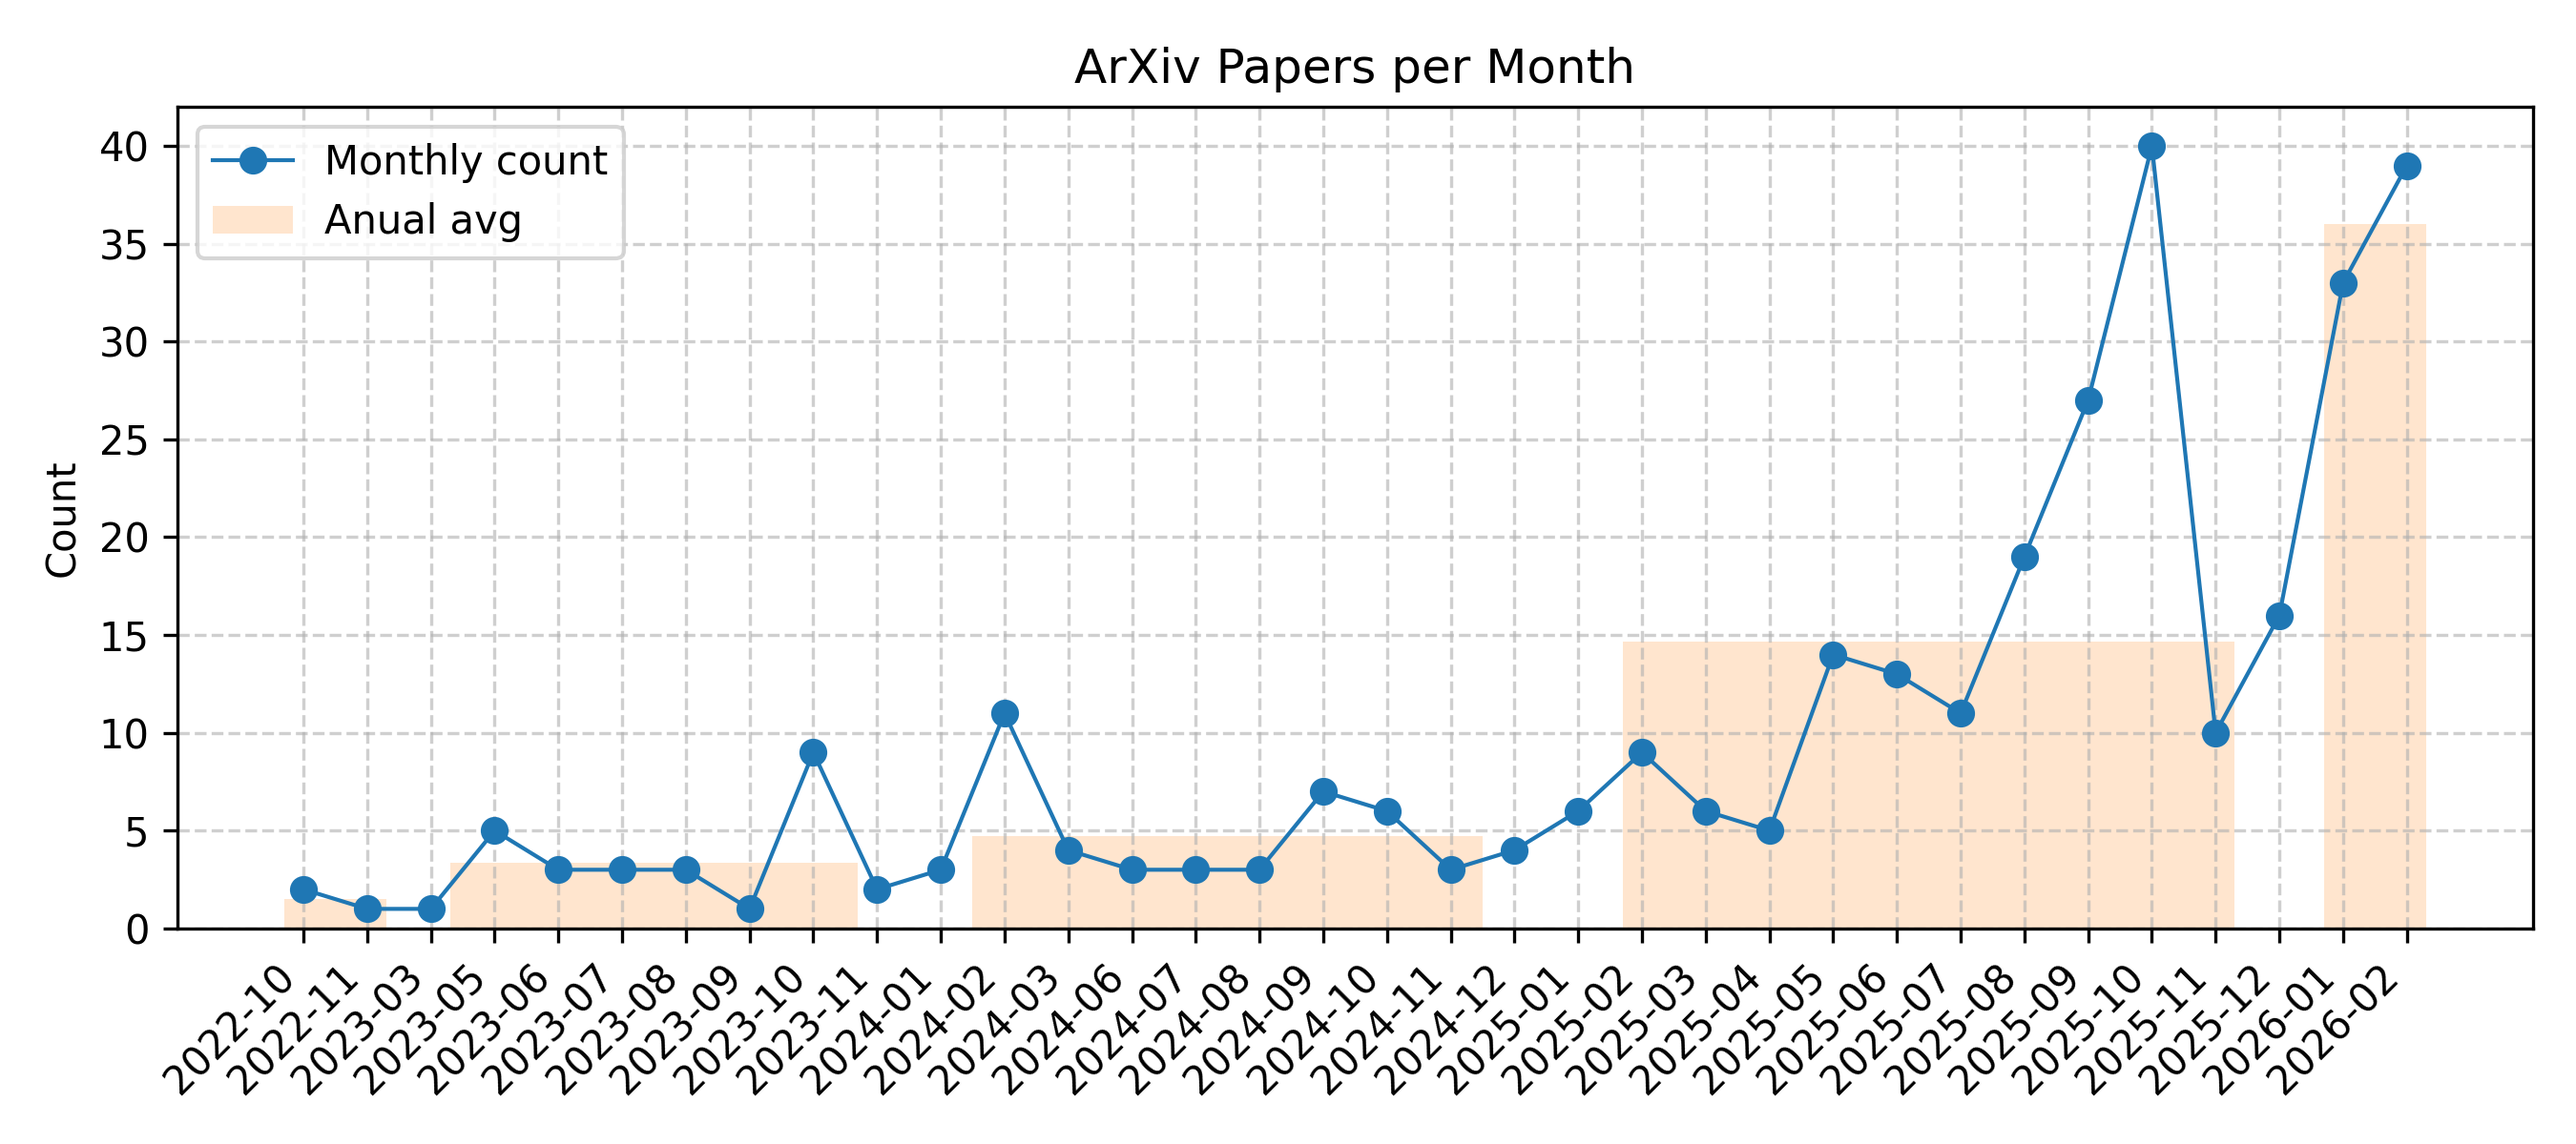
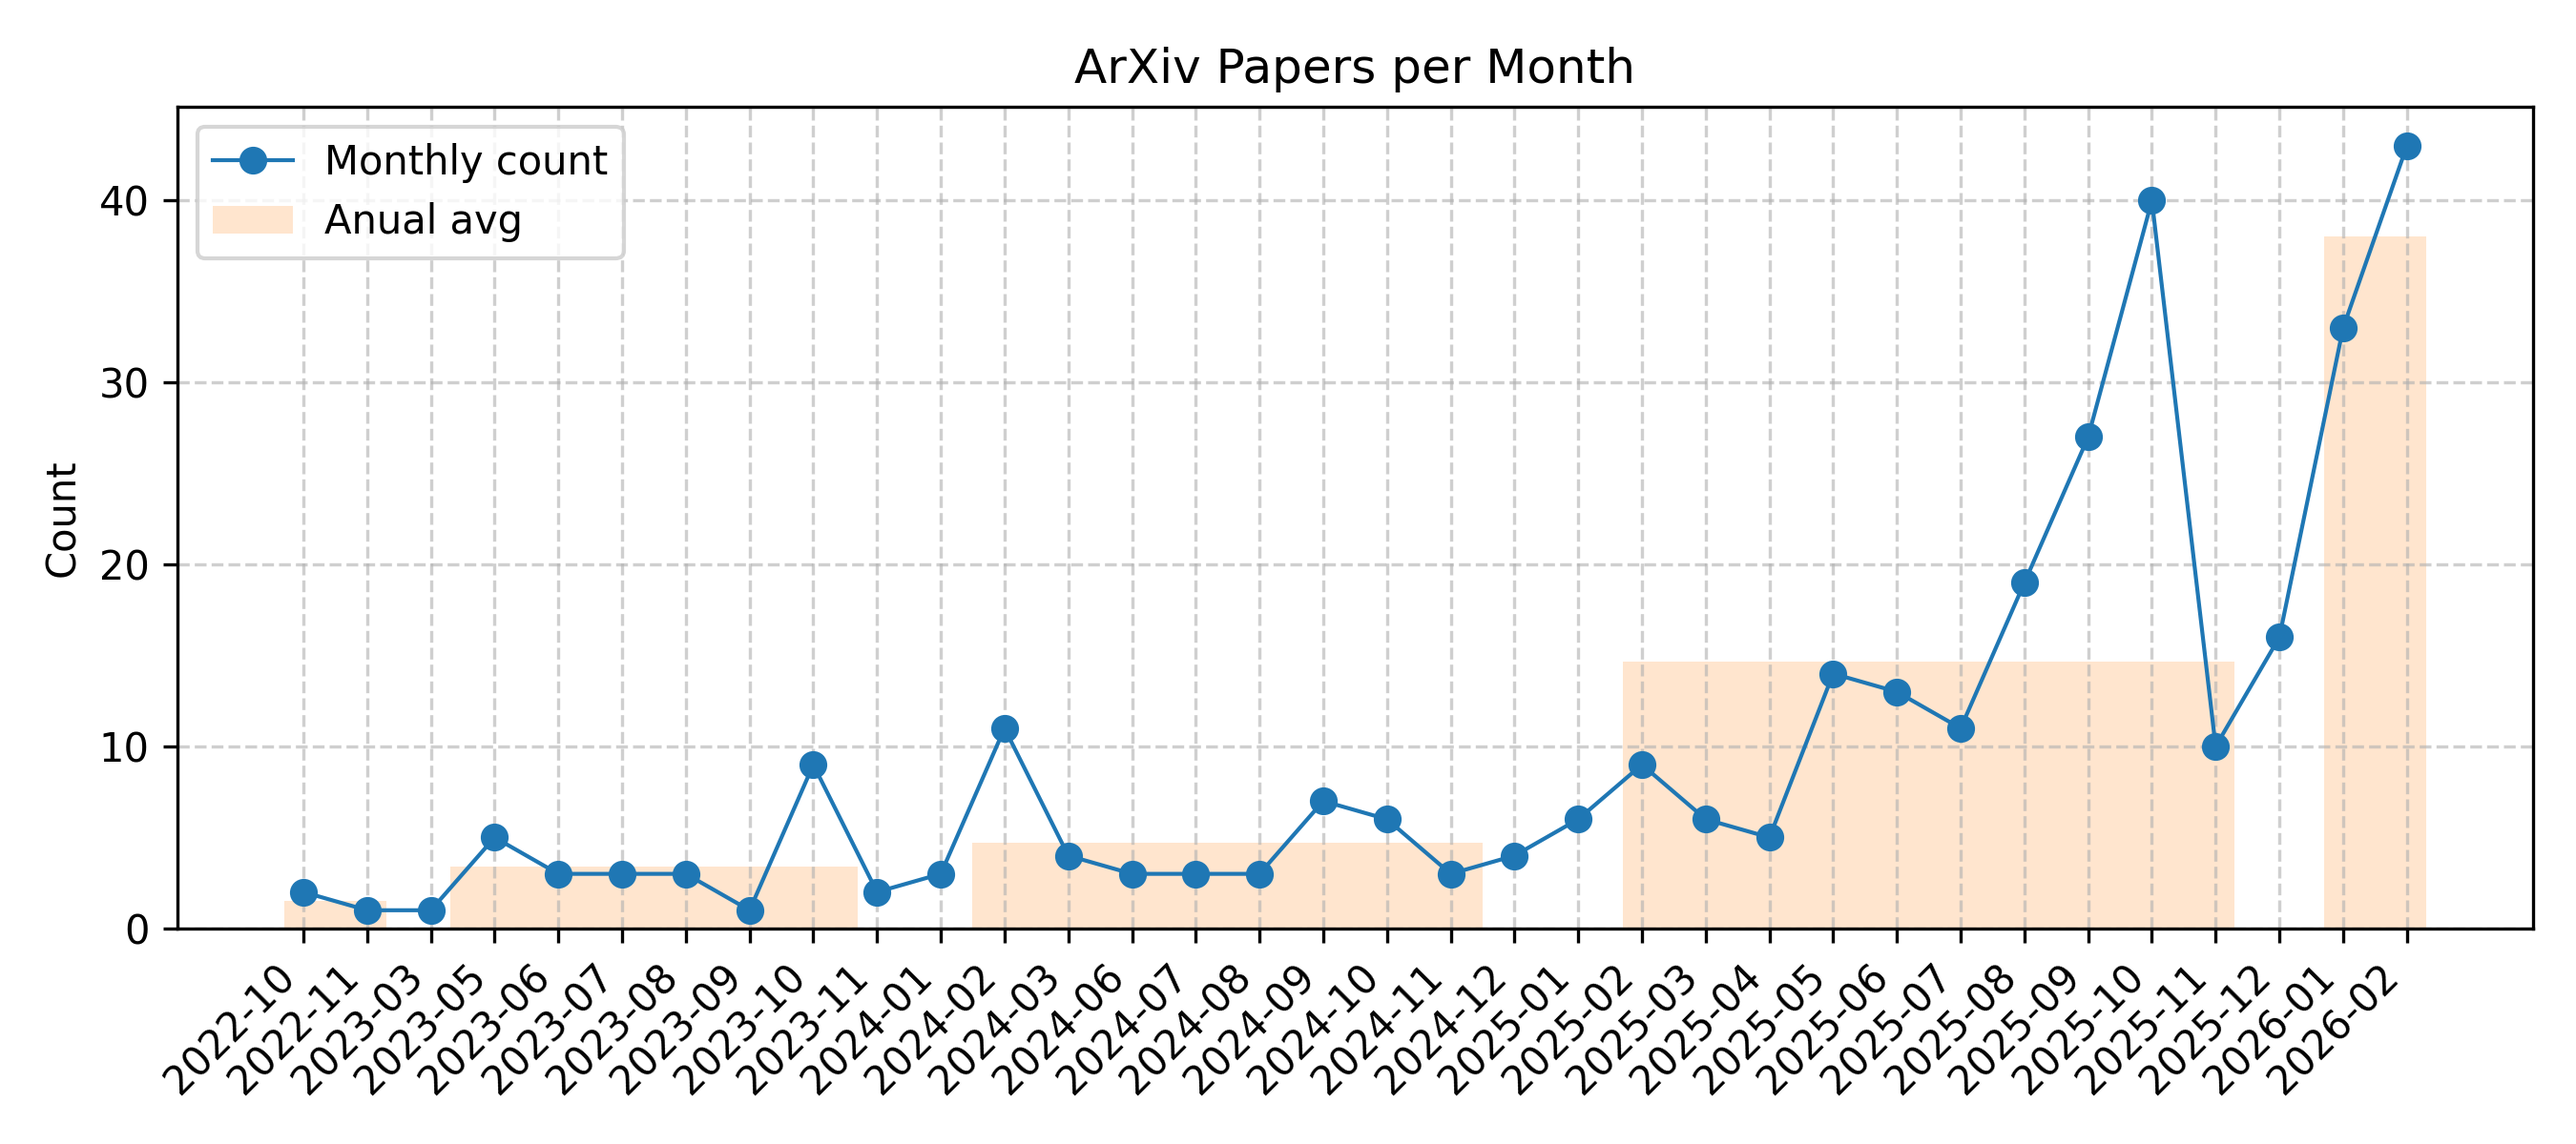
Github Action Automatic Update Diffusion NLP Arxiv Papers

diff --git a/README.md b/README.md
@@ -5,7 +5,7 @@
 
 For more carefully curated articles, you can refer to this [repository](https://github.com/bansky-cl/Diffusion_NLP_Papers).
 
-## Updated on 2026.02.26
+## Updated on 2026.02.27
 
 ![Monthly Trend](imgs/trend.png)
 
@@ -13,6 +13,10 @@ For more carefully curated articles, you can refer to this [repository](https://
 
 |Date|Title|label|Abstract|PDF|Code|
 |---|---|---|---|---|---|
+|**2026-02-26**|**Why Diffusion Language Models Struggle with Truly Parallel (Non-Autoregressive) Decoding?**|cs.CL, cs.AI| <details><summary>Full Abstract</summary>Diffusion Language Models (DLMs) are often advertised as enabling parallel token generation, yet practical fast DLMs frequently converge to left-to-right, autoregressive (AR)-like decoding dynamics. In contrast, genuinely non-AR generation is promising because it removes AR's sequential bottleneck, better exploiting parallel hardware to reduce synchronization/communication overhead and improve latency scaling with output length. We argue that a primary driver of AR-like decoding is a mismatch between DLM objectives and the highly sequential structure of widely used training data, including standard pretraining corpora and long chain-of-thought (CoT) supervision. Motivated by this diagnosis, we propose NAP (Non-Autoregressive Parallel DLMs), a proof-of-concept, data-centric approach that better aligns supervision with non-AR parallel decoding. NAP curates examples as multiple independent reasoning trajectories and couples them with a parallel-forced decoding strategy that encourages multi-token parallel updates. Across math reasoning benchmarks, NAP yields stronger performance under parallel decoding than DLMs trained on standard long CoT data, with gains growing as parallelism increases. Our results suggest that revisiting data and supervision is a principled direction for mitigating AR-like behavior and moving toward genuinely non-autoregressive parallel generation in DLMs. Our code is available at https://github.com/pixeli99/NAP.</details>|[2602.23225v1](http://arxiv.org/abs/2602.23225v1)| null|
+|**2026-02-26**|**Test-Time Scaling with Diffusion Language Models via Reward-Guided Stitching**|cs.CL, cs.AI| <details><summary>Full Abstract</summary>Reasoning with large language models often benefits from generating multiple chains-of-thought, but existing aggregation strategies are typically trajectory-level (e.g., selecting the best trace or voting on the final answer), discarding useful intermediate work from partial or "nearly correct" attempts. We propose Stitching Noisy Diffusion Thoughts, a self-consistency framework that turns cheap diffusion-sampled reasoning into a reusable pool of step-level candidates. Given a problem, we (i) sample many diverse, low-cost reasoning trajectories using a masked diffusion language model, (ii) score every intermediate step with an off-the-shelf process reward model (PRM), and (iii) stitch these highest-quality steps across trajectories into a composite rationale. This rationale then conditions an autoregressive (AR) model (solver) to recompute only the final answer. This modular pipeline separates exploration (diffusion) from evaluation and solution synthesis, avoiding monolithic unified hybrids while preserving broad search. Across math reasoning benchmarks, we find that step-level recombination is most beneficial on harder problems, and ablations highlight the importance of the final AR solver in converting stitched but imperfect rationales into accurate answers. Using low-confidence diffusion sampling with parallel, independent rollouts, our training-free framework improves average accuracy by up to 23.8% across six math and coding tasks. At the same time, it achieves up to a 1.8x latency reduction relative to both traditional diffusion models (e.g., Dream, LLaDA) and unified architectures (e.g., TiDAR). Code is available at https://github.com/roymiles/diffusion-stitching.</details>|[2602.22871v1](http://arxiv.org/abs/2602.22871v1)| null|
+|**2026-02-26**|**dLLM: Simple Diffusion Language Modeling**|cs.CL, cs.AI, cs.LG| <details><summary>Full Abstract</summary>Although diffusion language models (DLMs) are evolving quickly, many recent models converge on a set of shared components. These components, however, are distributed across ad-hoc research codebases or lack transparent implementations, making them difficult to reproduce or extend. As the field accelerates, there is a clear need for a unified framework that standardizes these common components while remaining flexible enough to support new methods and architectures.   To address this gap, we introduce dLLM, an open-source framework that unifies the core components of diffusion language modeling -- training, inference, and evaluation -- and makes them easy to customize for new designs. With dLLM, users can reproduce, finetune, deploy, and evaluate open-source large DLMs such as LLaDA and Dream through a standardized pipeline. The framework also provides minimal, reproducible recipes for building small DLMs from scratch with accessible compute, including converting any BERT-style encoder or autoregressive LM into a DLM. We also release the checkpoints of these small DLMs to make DLMs more accessible and accelerate future research.</details>|[2602.22661v1](http://arxiv.org/abs/2602.22661v1)| null|
+|**2026-02-26**|**TabDLM: Free-Form Tabular Data Generation via Joint Numerical-Language Diffusion**|cs.LG, cs.AI, cs.CL| <details><summary>Full Abstract</summary>Synthetic tabular data generation has attracted growing attention due to its importance for data augmentation, foundation models, and privacy. However, real-world tabular datasets increasingly contain free-form text fields (e.g., reviews or clinical notes) alongside structured numerical and categorical attributes. Generating such heterogeneous tables with joint modeling of different modalities remains challenging. Existing approaches broadly fall into two categories: diffusion-based methods and LLM-based methods. Diffusion models can capture complex dependencies over numerical and categorical features in continuous or discrete spaces, but extending them to open-ended text is nontrivial and often leads to degraded text quality. In contrast, LLM-based generators naturally produce fluent text, yet their discrete tokenization can distort precise or wide-range numerical values, hindering accurate modeling of both numbers and language. In this work, we propose TabDLM, a unified framework for free-form tabular data generation via a joint numerical--language diffusion model built on masked diffusion language models (MDLMs). TabDLM models textual and categorical features through masked diffusion, while modeling numerical features with a continuous diffusion process through learned specialized numeric tokens embedding; bidirectional attention then captures cross-modality interactions within a single model. Extensive experiments on diverse benchmarks demonstrate the effectiveness of TabDLM compared to strong diffusion- and LLM-based baselines.</details>|[2602.22586v1](http://arxiv.org/abs/2602.22586v1)| null|
 |**2026-02-24**|**Stop-Think-AutoRegress: Language Modeling with Latent Diffusion Planning**|cs.CL, cs.LG| <details><summary>Full Abstract</summary>The Stop-Think-AutoRegress Language Diffusion Model (STAR-LDM) integrates latent diffusion planning with autoregressive generation. Unlike conventional autoregressive language models limited to token-by-token decisions, STAR-LDM incorporates a "thinking" phase that pauses generation to refine a semantic plan through diffusion before continuing. This enables global planning in continuous space prior to committing to discrete tokens. Evaluations show STAR-LDM significantly outperforms similar-sized models on language understanding benchmarks and achieves $>70\%$ win rates in LLM-as-judge comparisons for narrative coherence and commonsense reasoning. The architecture also allows straightforward control through lightweight classifiers, enabling fine-grained steering of attributes without model retraining while maintaining better fluency-control trade-offs than specialized approaches.</details>|[2602.20528v1](http://arxiv.org/abs/2602.20528v1)| null|
 |**2026-02-21**|**MANATEE: Inference-Time Lightweight Diffusion Based Safety Defense for LLMs**|cs.CR, cs.AI, cs.CL, cs.LG| <details><summary>Full Abstract</summary>Defending LLMs against adversarial jailbreak attacks remains an open challenge. Existing defenses rely on binary classifiers that fail when adversarial input falls outside the learned decision boundary, and repeated fine-tuning is computationally expensive while potentially degrading model capabilities. We propose MANATEE, an inference-time defense that uses density estimation over a benign representation manifold. MANATEE learns the score function of benign hidden states and uses diffusion to project anomalous representations toward safe regions--requiring no harmful training data and no architectural modifications. Experiments across Mistral-7B-Instruct, Llama-3.1-8B-Instruct, and Gemma-2-9B-it demonstrate that MANATEE reduce Attack Success Rate by up to 100\% on certain datasets, while preserving model utility on benign inputs.</details>|[2602.18782v1](http://arxiv.org/abs/2602.18782v1)| null|
 |**2026-02-20**|**Improving Sampling for Masked Diffusion Models via Information Gain**|cs.CL| <details><summary>Full Abstract</summary>Masked Diffusion Models (MDMs) offer greater flexibility in decoding order than autoregressive models but require careful planning to achieve high-quality generation. Existing samplers typically adopt greedy heuristics, prioritizing positions with the highest local certainty to decode at each step. Through failure case analysis, we identify a fundamental limitation of this approach: it neglects the downstream impact of current decoding choices on subsequent steps and fails to minimize cumulative uncertainty. In particular, these methods do not fully exploit the non-causal nature of MDMs, which enables evaluating how a decoding decision reshapes token probabilities/uncertainty across all remaining masked positions. To bridge this gap, we propose the Info-Gain Sampler, a principled decoding framework that balances immediate uncertainty with information gain over future masked tokens. Extensive evaluations across diverse architectures and tasks (reasoning, coding, creative writing, and image generation) demonstrate that Info-Gain Sampler consistently outperforms existing samplers for MDMs. For instance, it achieves a 3.6% improvement in average accuracy on reasoning tasks and a 63.1% win-rate in creative writing. Notably, on reasoning tasks it reduces cumulative uncertainty from 78.4 to 48.6, outperforming the best baseline by a large margin. The code will be available at https://github.com/yks23/Information-Gain-Sampler.</details>|[2602.18176v1](http://arxiv.org/abs/2602.18176v1)| null|
@@ -339,7 +343,7 @@ For more carefully curated articles, you can refer to this [repository](https://
 |**2022-11-01**|**DiffusER: Discrete Diffusion via Edit-based Reconstruction**|cs.CL, cs.LG| <details><summary>Full Abstract</summary>In text generation, models that generate text from scratch one token at a time are currently the dominant paradigm. Despite being performant, these models lack the ability to revise existing text, which limits their usability in many practical scenarios. We look to address this, with DiffusER (Diffusion via Edit-based Reconstruction), a new edit-based generative model for text based on denoising diffusion models -- a class of models that use a Markov chain of denoising steps to incrementally generate data. DiffusER is not only a strong generative model in general, rivalling autoregressive models on several tasks spanning machine translation, summarization, and style transfer; it can also perform other varieties of generation that standard autoregressive models are not well-suited for. For instance, we demonstrate that DiffusER makes it possible for a user to condition generation on a prototype, or an incomplete sequence, and continue revising based on previous edit steps.</details>|[2210.16886v1](http://arxiv.org/abs/2210.16886v1)| null|
 |**2023-02-01**|**Diffuser: Efficient Transformers with Multi-hop Attention Diffusion for Long Sequences**|cs.LG, cs.CL|<details><summary>Full Abstract</summary>Efficient Transformers have been developed for long sequence modeling, due to their subquadratic memory and time complexity. Sparse Transformer is a popular approach to improving the efficiency of Transformers by restricting self-attention to locations specified by the predefined sparse patterns. However, leveraging sparsity may sacrifice expressiveness compared to full-attention, when important token correlations are multiple hops away. To combine advantages of both the efficiency of sparse transformer and the expressiveness of full-attention Transformer, we propose \textit{Diffuser}, a new state-of-the-art efficient Transformer. Diffuser incorporates all token interactions within one attention layer while maintaining low computation and memory costs. The key idea is to expand the receptive field of sparse attention using Attention Diffusion, which computes multi-hop token correlations based on all paths between corresponding disconnected tokens, besides attention among neighboring tokens. Theoretically, we show the expressiveness of Diffuser as a universal sequence approximator for sequence-to-sequence modeling, and investigate its ability to approximate full-attention by analyzing the graph expander property from the spectral perspective. Experimentally, we investigate the effectiveness of Diffuser with extensive evaluations, including language modeling, image modeling, and Long Range Arena (LRA). Evaluation results show that Diffuser achieves improvements by an average of 0.94% on text classification tasks and 2.30% on LRA, with 1.67$\times$ memory savings compared to state-of-the-art benchmarks, which demonstrates superior performance of Diffuser in both expressiveness and efficiency aspects.</details>|[2210.11794v2](http://arxiv.org/abs/2210.11794v2)|**[link](https://github.com/asFeng/Diffuser)**|
 
-<p align=right>(<a href=#Updated-on-20260226>back to top</a>)</p>
+<p align=right>(<a href=#Updated-on-20260227>back to top</a>)</p>
 
 [contributors-shield]: https://img.shields.io/github/contributors/bansky-cl/diffusion-nlp-paper-arxiv.svg?style=for-the-badge
 [contributors-url]: https://github.com/bansky-cl/diffusion-nlp-paper-arxiv/graphs/contributors
